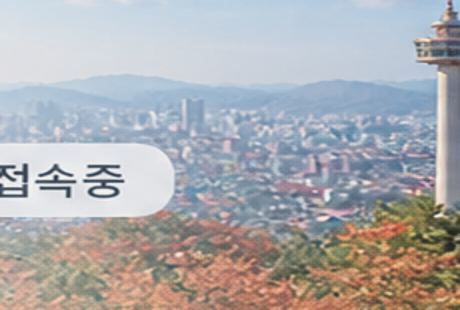
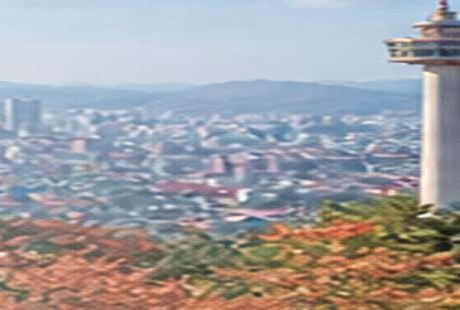
Add files via upload

diff --git a/app.js b/app.js
@@ -520,7 +520,7 @@
         var realCount = (activeCounts && activeCounts[city.id]) ? activeCounts[city.id] : 0;
 
         if (filter === '' || name.toLowerCase().indexOf(filter.toLowerCase()) !== -1 || subText.toLowerCase().indexOf(filter.toLowerCase()) !== -1 || Object.values(city.subCities || {}).join(' ').toLowerCase().indexOf(filter.toLowerCase()) !== -1) {
-          var card = '<div onclick="openCityBoard(\'' + city.id + '\')" class="city-photo-card p-3.5 rounded-2xl border border-slate-200 shadow-sm hover:border-indigo-400 cursor-pointer flex items-center justify-between gap-3 w-full transition" style="' + (city.photo ? 'background-image:linear-gradient(90deg,rgba(255,255,255,.94) 0%,rgba(255,255,255,.91) 29%,rgba(255,255,255,.60) 44%,rgba(255,255,255,.10) 63%,rgba(255,255,255,0) 76%),url(&quot;'+city.photo+'&quot;)' : 'background:#fff') + '">' +
+          var card = '<div onclick="openCityBoard(\'' + city.id + '\')" class="city-photo-card p-3.5 rounded-2xl border border-slate-200 shadow-sm hover:border-indigo-400 cursor-pointer flex items-center justify-between gap-3 w-full transition" style="' + (city.photo ? 'background-image:linear-gradient(90deg,rgba(255,255,255,.97) 0%,rgba(255,255,255,.97) 29%,rgba(255,255,255,.70) 39%,rgba(255,255,255,.18) 58%,rgba(255,255,255,0) 68%),url(&quot;'+city.photo+'&quot;)' : 'background:#fff') + '">' +
             '<div class="flex items-center gap-3 min-w-0 flex-1">' +
               '<div class="min-w-0 flex-1">' +
                 '<div class="flex items-center gap-2">' +

diff --git a/index.html b/index.html
@@ -51,11 +51,11 @@ header {gap:6px;min-width:0}
 @media (max-width: 768px) {
   .app-container > header {
     box-sizing:border-box!important;
-    padding-top:calc(33px + env(safe-area-inset-top, 0px))!important;
+    padding-top:calc(8px + env(safe-area-inset-top, 0px))!important;
     padding-bottom:12px!important;
     padding-left:12px!important;
     padding-right:12px!important;
-    min-height:90px!important;
+    min-height:72px!important;
     align-items:center!important;
     gap:6px!important;
   }
